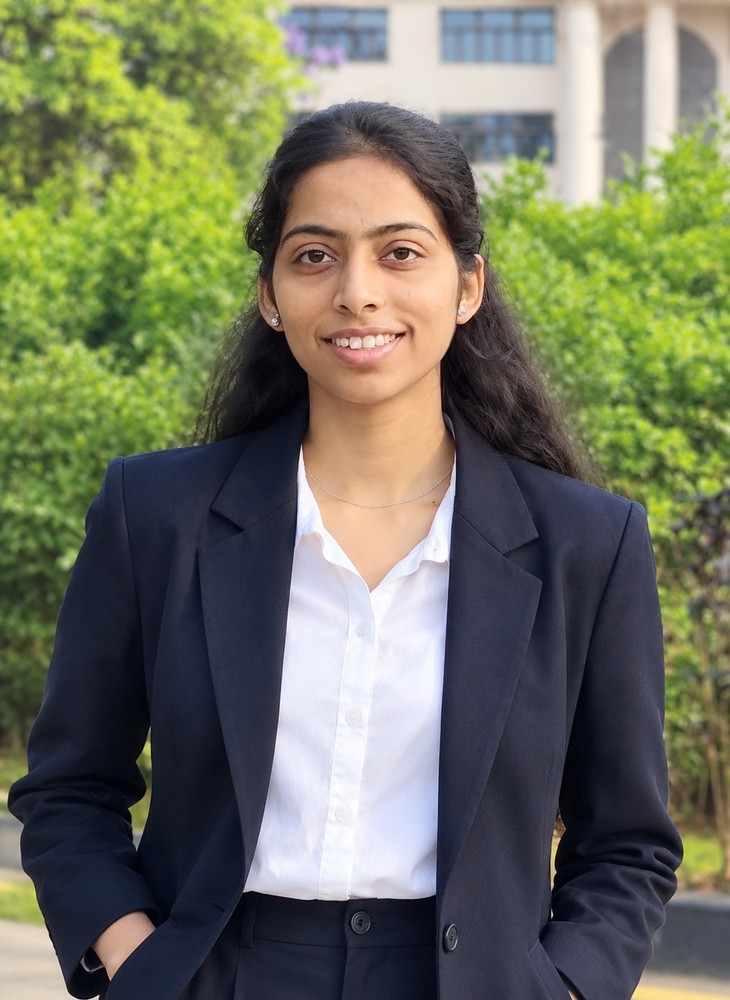
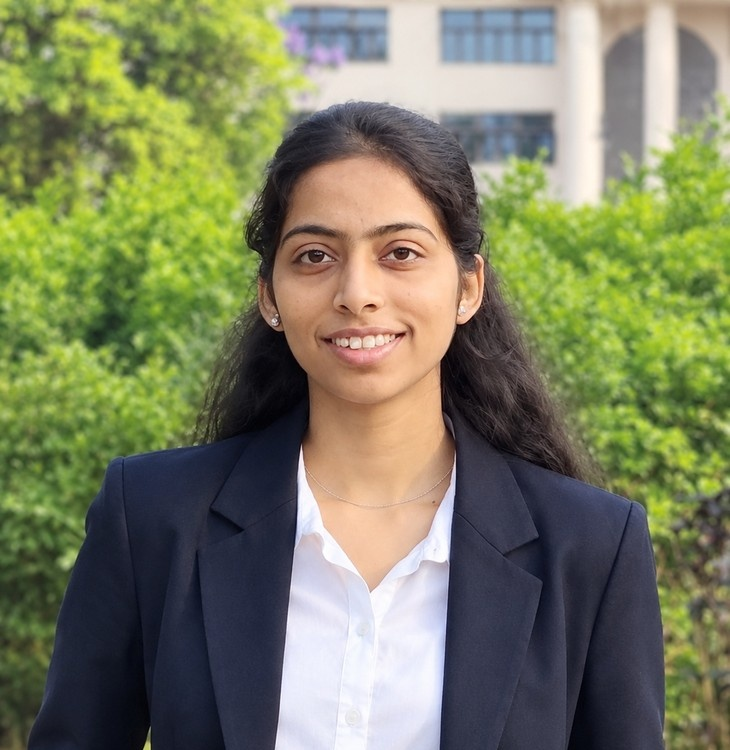
fix(team,events): update member counts, workshop title, photo crops and ring radius

diff --git a/frontend/src/components/team/TeamFlipCard.jsx b/frontend/src/components/team/TeamFlipCard.jsx
@@ -118,24 +118,24 @@ export function TeamFlipCard({ member }) {
           {/* Center Content: Avatar, Name & Designation */}
           <div className="my-auto pt-2 flex flex-col items-center text-center w-full px-1">
             {/* Avatar frame with subtle GDGC gradient ring */}
-            <div className="relative p-1.5 rounded-full bg-gradient-to-tr from-[#4285F4] via-[#FBBC04] to-[#EA4335] shadow-lg group-hover:scale-115 transition-transform duration-300">
+            <div className="relative p-2 rounded-full bg-gradient-to-tr from-[#4285F4] via-[#FBBC04] to-[#EA4335] shadow-lg group-hover:scale-105 transition-transform duration-300">
               {member.image && !imgError ? (
                 <img
                   src={member.image}
                   alt={member.name}
                   onError={() => setImgError(true)}
-                  className="w-32 h-32 sm:w-36 sm:h-36 rounded-full object-cover bg-muted border-2 border-background shadow-inner"
+                  className="w-36 h-36 sm:w-40 sm:h-40 rounded-full object-cover bg-muted border-2 border-background shadow-inner"
                   loading="lazy"
                 />
               ) : (
-                <div className="w-32 h-32 sm:w-36 sm:h-36 rounded-full bg-muted/80 flex flex-col items-center justify-center border-2 border-background shadow-inner text-muted-foreground">
-                  <User className="w-14 h-14 sm:w-16 sm:h-16 text-muted-foreground/50 mb-1" />
+                <div className="w-36 h-36 sm:w-40 sm:h-40 rounded-full bg-muted/80 flex flex-col items-center justify-center border-2 border-background shadow-inner text-muted-foreground">
+                  <User className="w-16 h-16 sm:w-18 sm:h-18 text-muted-foreground/50 mb-1" />
                 </div>
               )}
             </div>
 
             {/* Member Name */}
-            <h3 className="text-base sm:text-lg font-bold text-foreground mt-4 tracking-tight group-hover:text-primary transition-colors w-full truncate px-1">
+            <h3 className="text-base sm:text-lg font-bold text-foreground mt-3 tracking-tight group-hover:text-primary transition-colors w-full truncate px-1">
               {member.name}
             </h3>
 

diff --git a/frontend/src/pages/Team.jsx b/frontend/src/pages/Team.jsx
@@ -10,8 +10,8 @@ import { TeamFlipCard } from '@/components/team/TeamFlipCard';
 const teamTabs = [
   { id: 'faculties', label: 'Faculties', count: faculties.length },
   { id: 'leads', label: 'Leads', count: leads.length },
-  { id: 'domainHeads', label: 'Domain Heads', count: domainHeads.length },
-  { id: 'all', label: 'All Members', count: faculties.length + leads.length + domainHeads.length },
+  { id: 'domainHeads', label: 'Domain Heads', count: 22 },
+  { id: 'all', label: 'All Members', count: 24 },
 ];
 
 export function Team() {
@@ -294,7 +294,7 @@ export function Team() {
                   <Layers className="w-5 h-5 text-green-500" />
                   <h3 className="text-2xl font-bold text-foreground">Domain Heads</h3>
                   <span className="px-2.5 py-0.5 rounded-full text-xs font-semibold bg-green-500/10 text-green-500">
-                    {domainHeads.length} Heads
+                    22 Heads
                   </span>
                 </div>
 

diff --git a/frontend/src/data/events.js b/frontend/src/data/events.js
@@ -18,7 +18,7 @@ export const upcomingEvents = [
   },
   {
     id: 2,
-    title: 'Web Dev + Cloud Workshop',
+    title: 'Web Development Workshop',
     date: 'Sept 12 - 13, 2026 (Saturday & Sunday)',
     time: '5:00 PM - 7:00 PM (2 Hours / Day)',
     duration: '2 Hours',
@@ -201,6 +201,6 @@ export const pastEventPhotos = pastEvents.map((event) => ({
 // Spotlight events for the Home page
 export const spotlightEvents = [
   upcomingEvents[0], // BLACKOUT
-  upcomingEvents[1], // Web Dev + Cloud Workshop
+  upcomingEvents[1], // Web Development Workshop
   pastEvents[0],     // GDGC PCCoE Coding Contest on HackerRank
 ];
